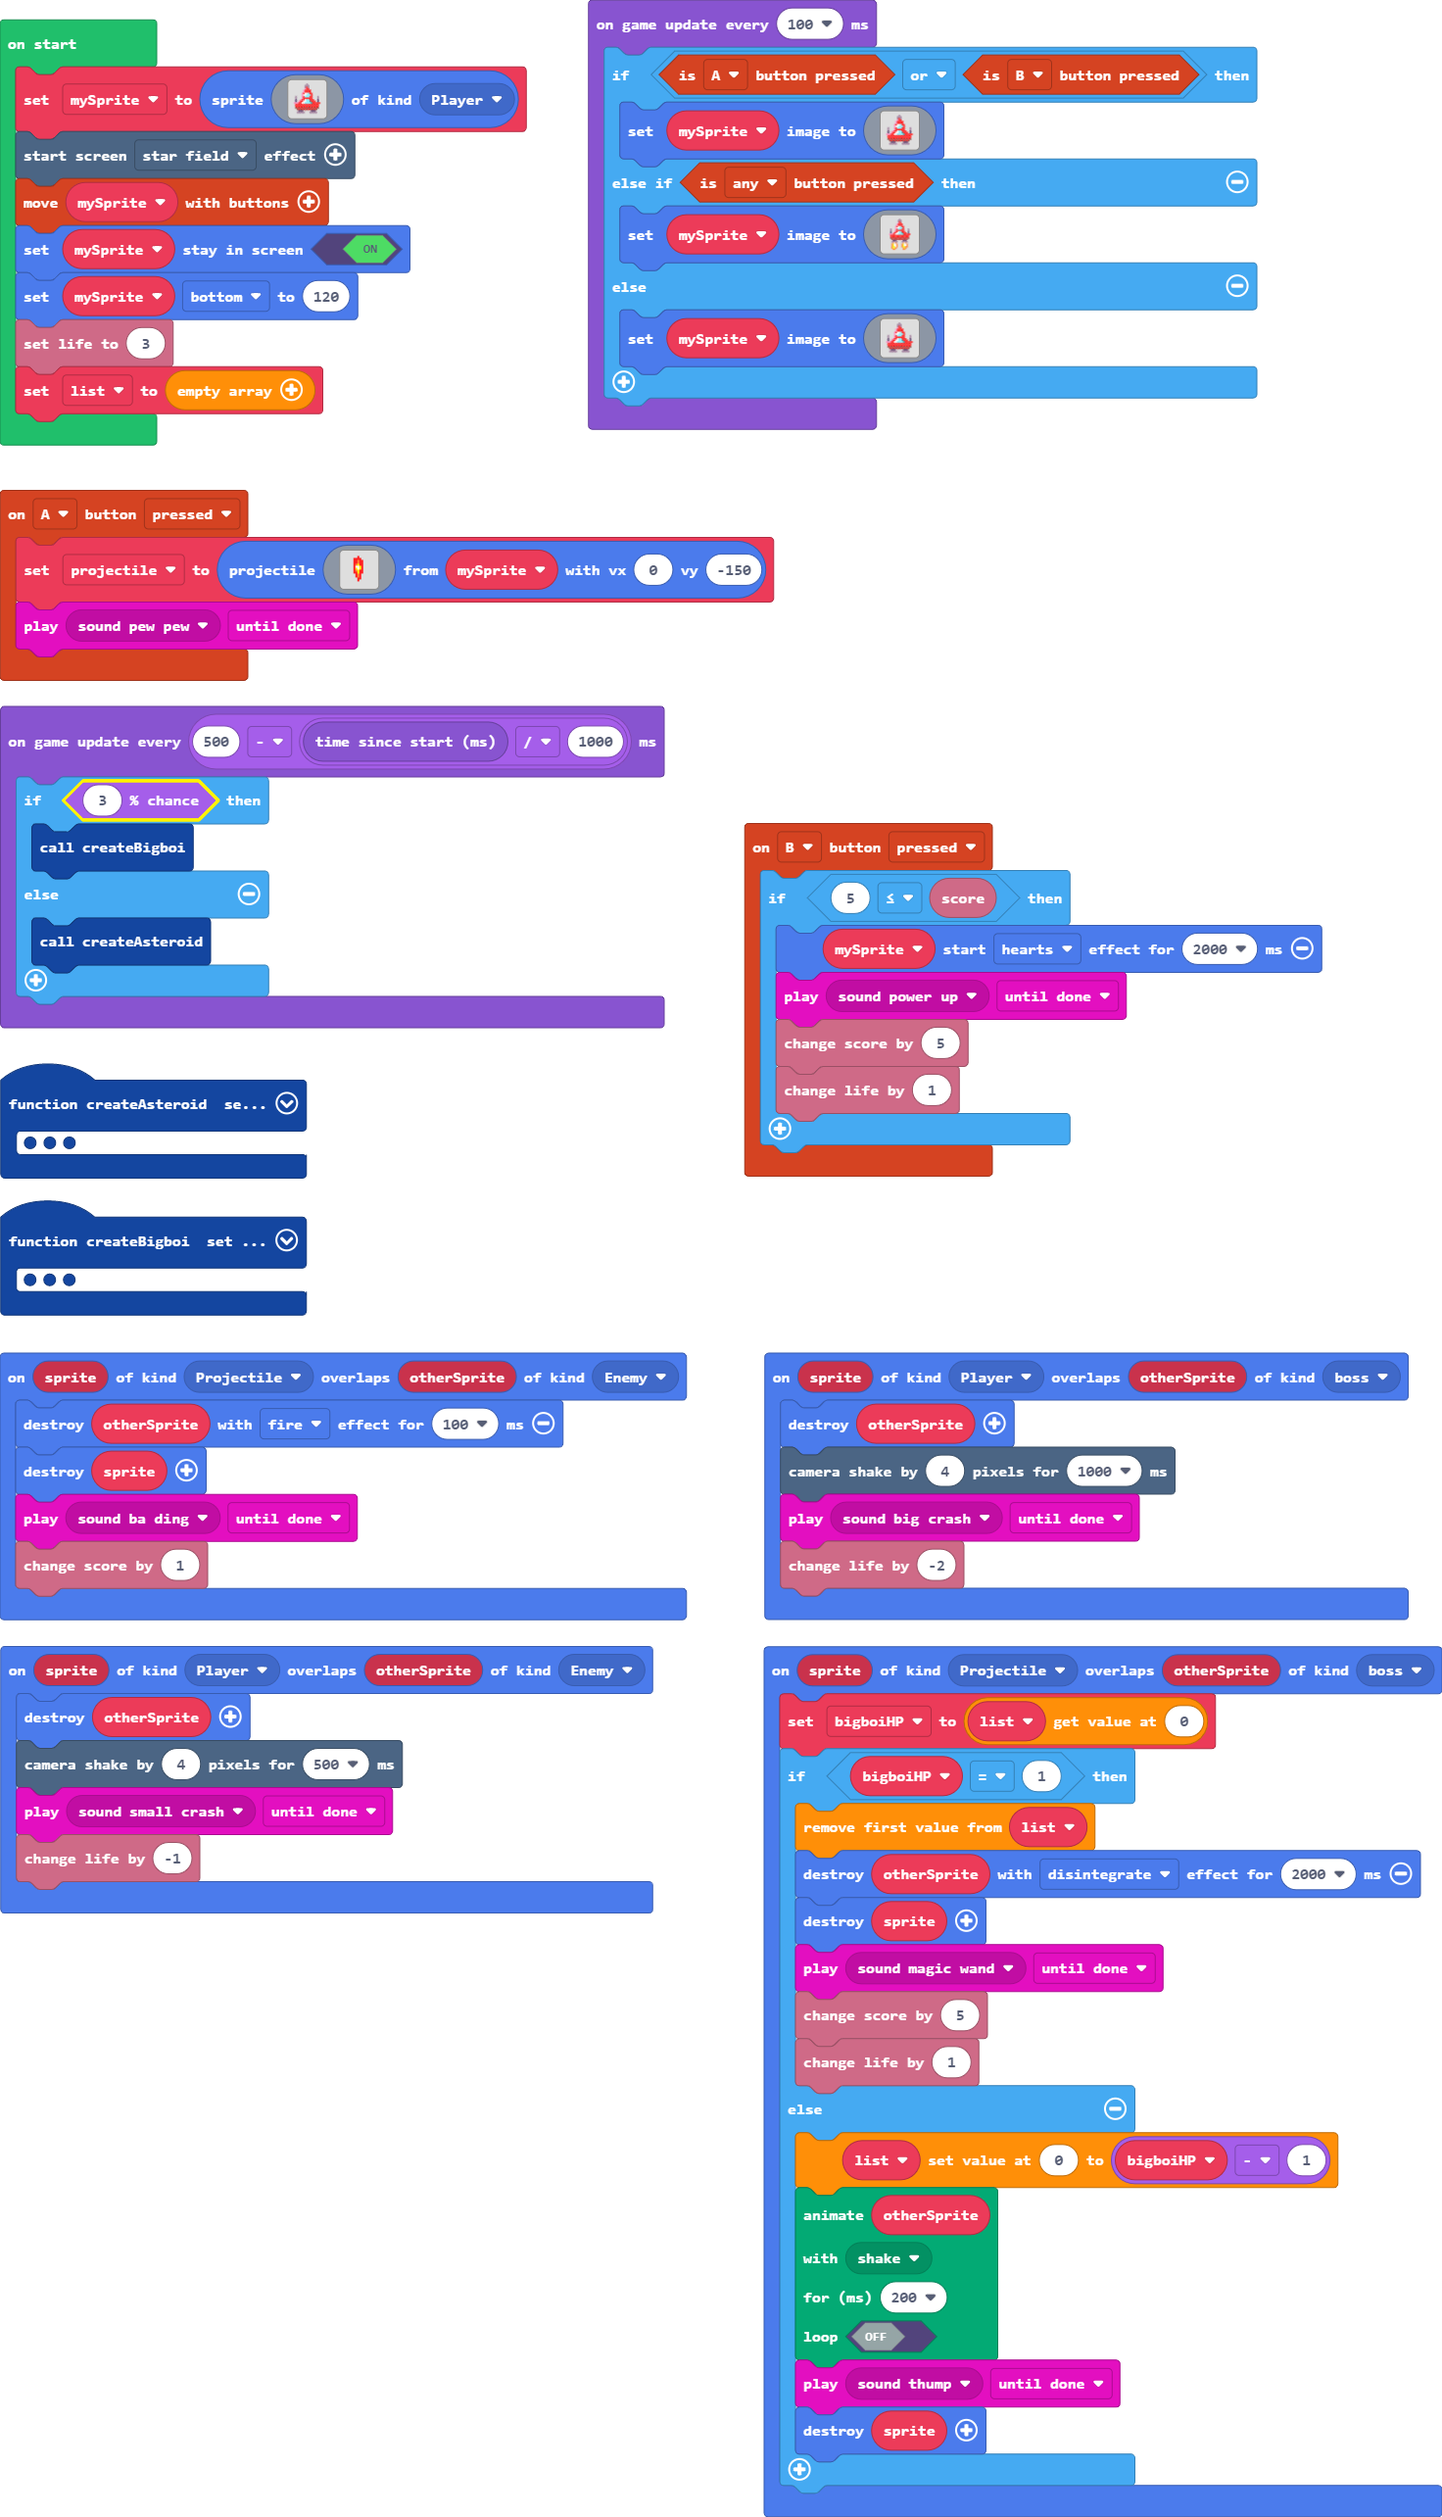
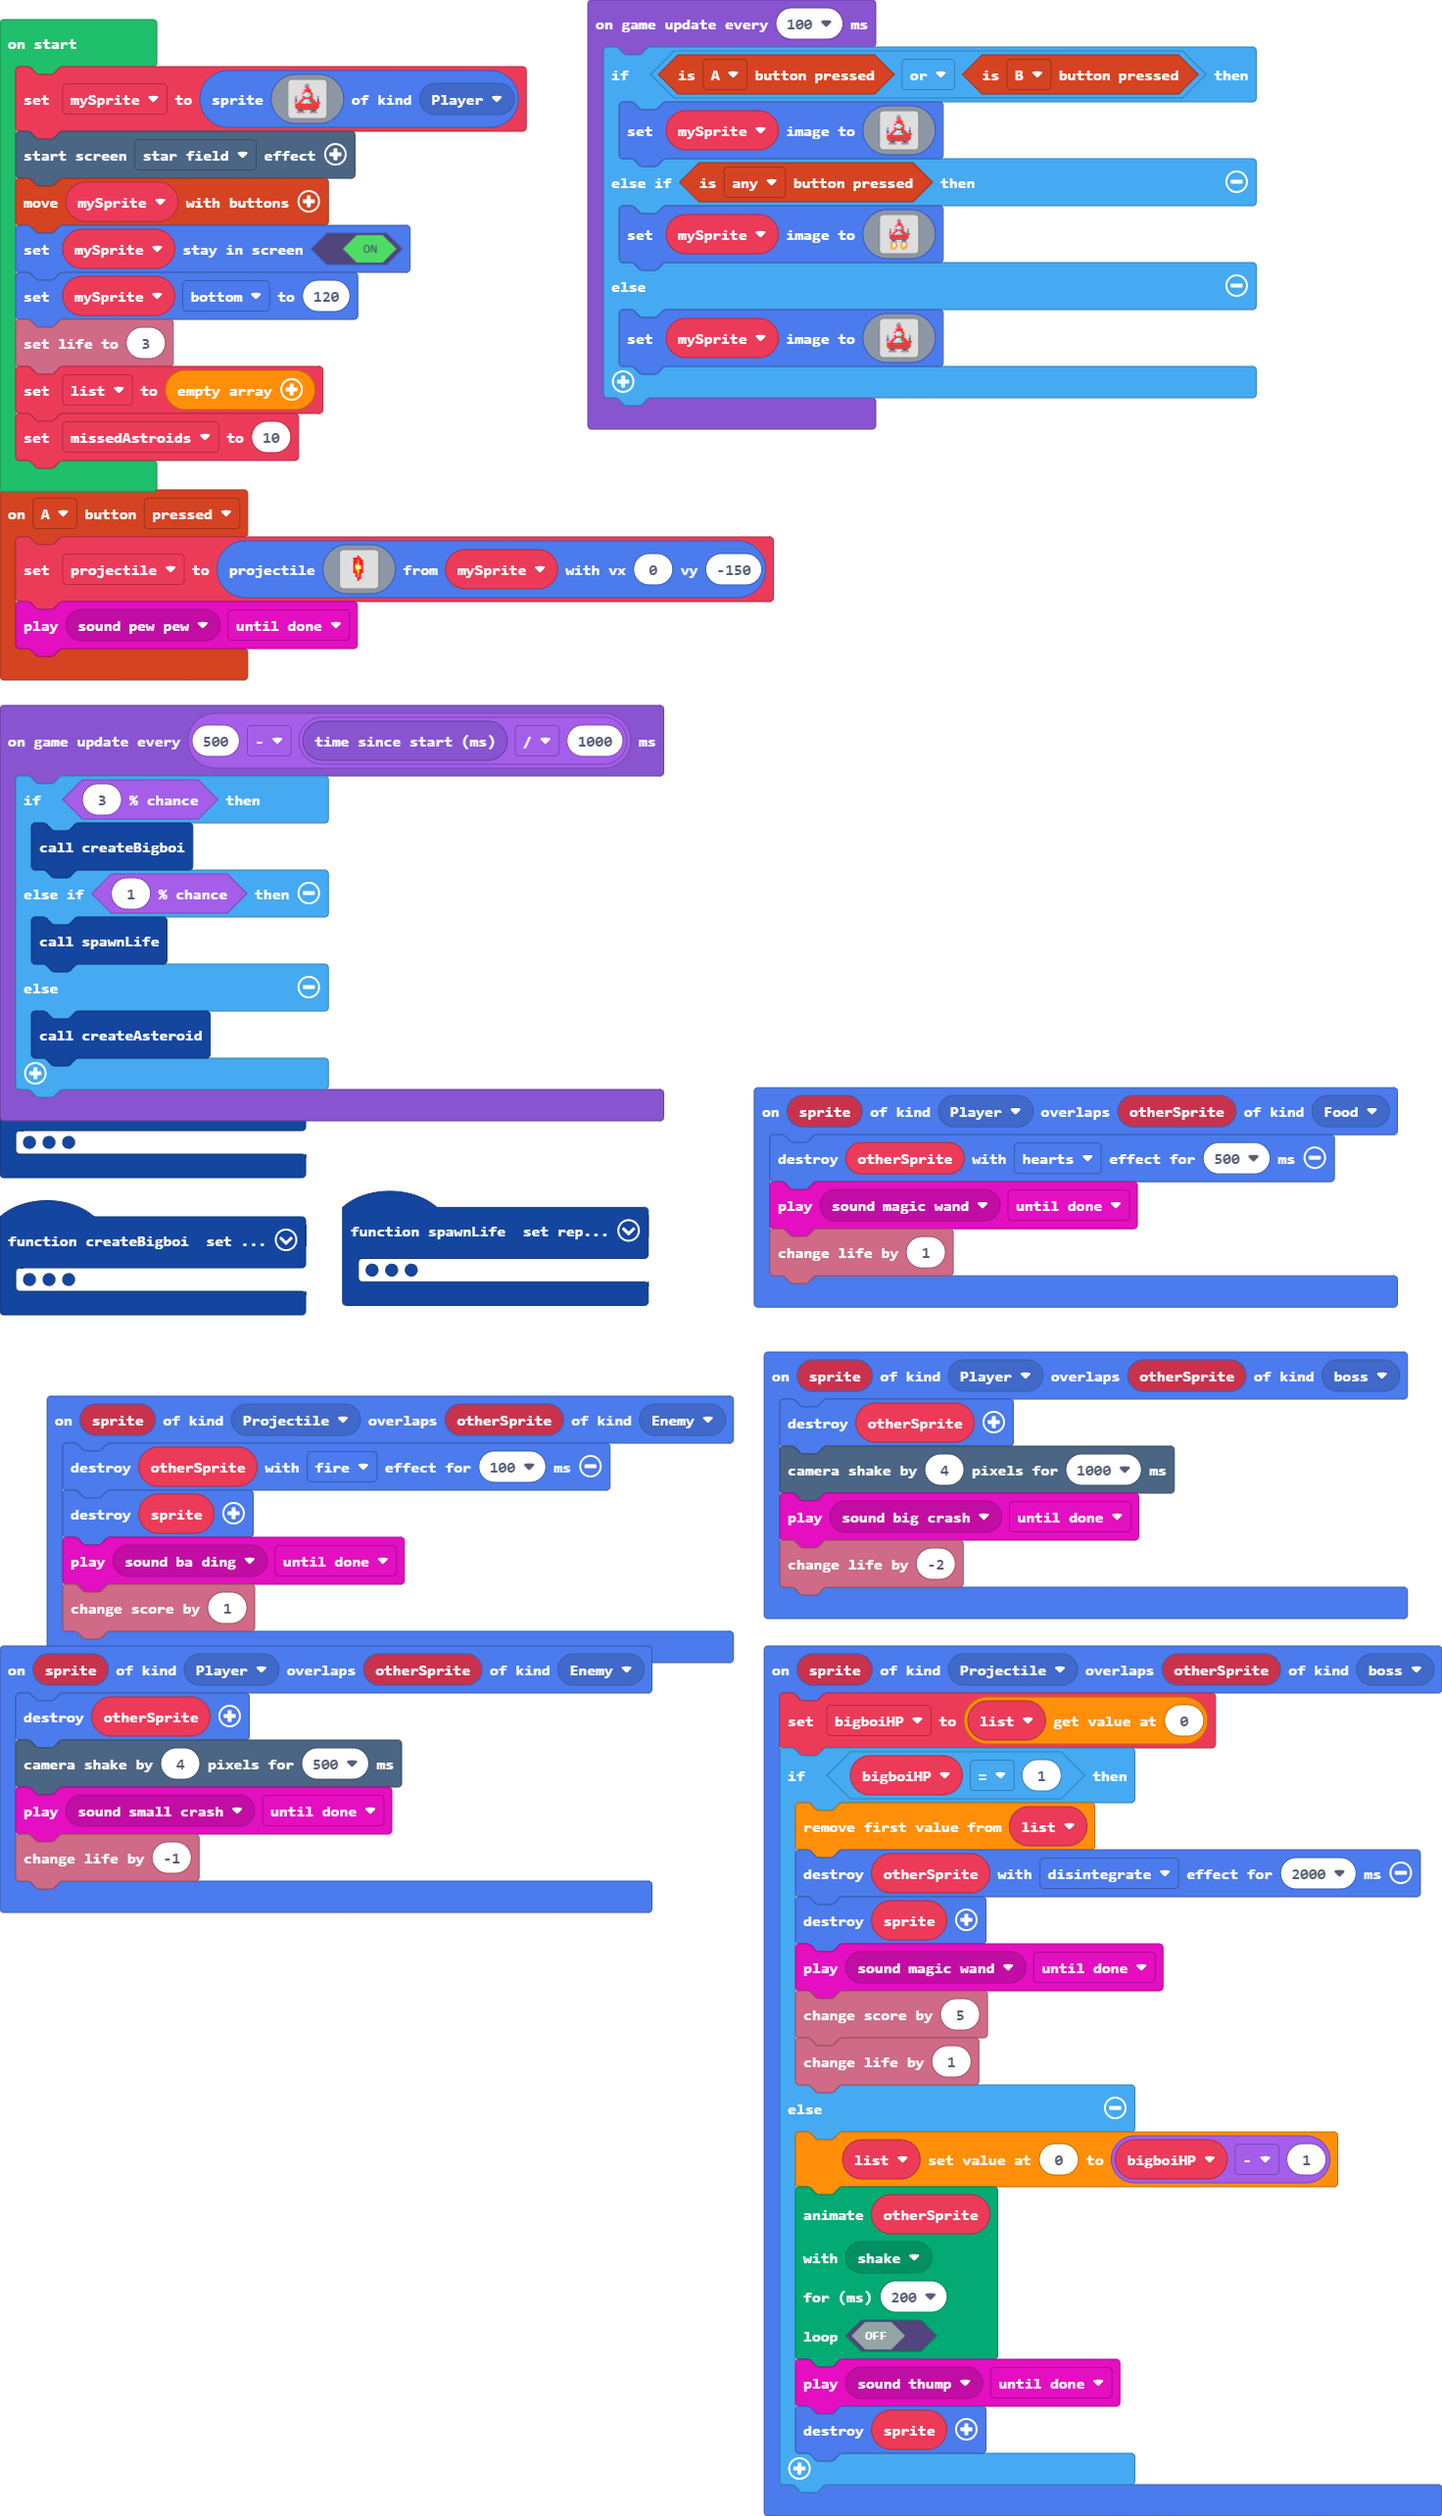
added ways to increase health

diff --git a/main.ts b/main.ts
@@ -64,14 +64,6 @@ function createBigboi () {
     bigboi.setFlag(SpriteFlag.AutoDestroy, true)
     list.push(10)
 }
-controller.B.onEvent(ControllerButtonEvent.Pressed, function () {
-    if (5 <= info.score()) {
-        mySprite.startEffect(effects.hearts, 2000)
-        music.play(music.melodyPlayable(music.powerUp), music.PlaybackMode.UntilDone)
-        info.changeScoreBy(5)
-        info.changeLifeBy(1)
-    }
-})
 controller.A.onEvent(ControllerButtonEvent.Pressed, function () {
     projectile = sprites.createProjectileFromSprite(img`
         . . . . . . . . . . . . . . . . 
@@ -138,6 +130,11 @@ sprites.onOverlap(SpriteKind.Projectile, SpriteKind.boss, function (sprite, othe
         sprites.destroy(sprite)
     }
 })
+sprites.onOverlap(SpriteKind.Player, SpriteKind.Food, function (sprite, otherSprite) {
+    sprites.destroy(otherSprite, effects.hearts, 500)
+    music.play(music.melodyPlayable(music.magicWand), music.PlaybackMode.UntilDone)
+    info.changeLifeBy(1)
+})
 sprites.onOverlap(SpriteKind.Projectile, SpriteKind.Enemy, function (sprite, otherSprite) {
     sprites.destroy(otherSprite, effects.fire, 100)
     sprites.destroy(sprite)
@@ -150,6 +147,31 @@ sprites.onOverlap(SpriteKind.Player, SpriteKind.Enemy, function (sprite, otherSp
     music.play(music.melodyPlayable(music.smallCrash), music.PlaybackMode.UntilDone)
     info.changeLifeBy(-1)
 })
+function spawnLife () {
+    repairPack = sprites.create(img`
+        . . . . . . . . . . . . . . . . 
+        . . . . . . . . . . . . . . . . 
+        . . . . . . . . . . . . . . . . 
+        . . . . . . . . . . . . . . . . 
+        . . . . . . . . . . . . . . . . 
+        . . . . . f f f . f f f . . . . 
+        . . . . f 2 2 2 f 2 2 2 f . . . 
+        . . . . f 2 2 2 2 2 1 2 f . . . 
+        . . . . f 2 2 2 2 2 2 2 f . . . 
+        . . . . . f 2 4 4 4 2 f . . . . 
+        . . . . . f f 4 4 4 f f . . . . 
+        . . . . . . f f 4 f f . . . . . 
+        . . . . . . . f f f . . . . . . 
+        . . . . . . . . . . . . . . . . 
+        . . . . . . . . . . . . . . . . 
+        . . . . . . . . . . . . . . . . 
+        `, SpriteKind.Food)
+    speed = randint(50, 100) + game.runtime() / 1000
+    repairPack.setVelocity(0, speed)
+    repairPack.setPosition(randint(3, 150), 0)
+    repairPack.setFlag(SpriteFlag.AutoDestroy, true)
+}
+let repairPack: Sprite = null
 let bigboiHP = 0
 let speed = 0
 let asteroide: Sprite = null
@@ -185,6 +207,7 @@ mySprite.setStayInScreen(true)
 mySprite.bottom = 120
 info.setLife(3)
 list = []
+let missedAstroids = 10
 game.onUpdateInterval(100, function () {
     if (controller.A.isPressed() || controller.B.isPressed()) {
         mySprite.setImage(img`
@@ -265,6 +288,8 @@ game.onUpdateInterval(100, function () {
 game.onUpdateInterval(500 - game.runtime() / 1000, function () {
     if (Math.percentChance(3)) {
         createBigboi()
+    } else if (Math.percentChance(1)) {
+        spawnLife()
     } else {
         createAsteroid()
     }
